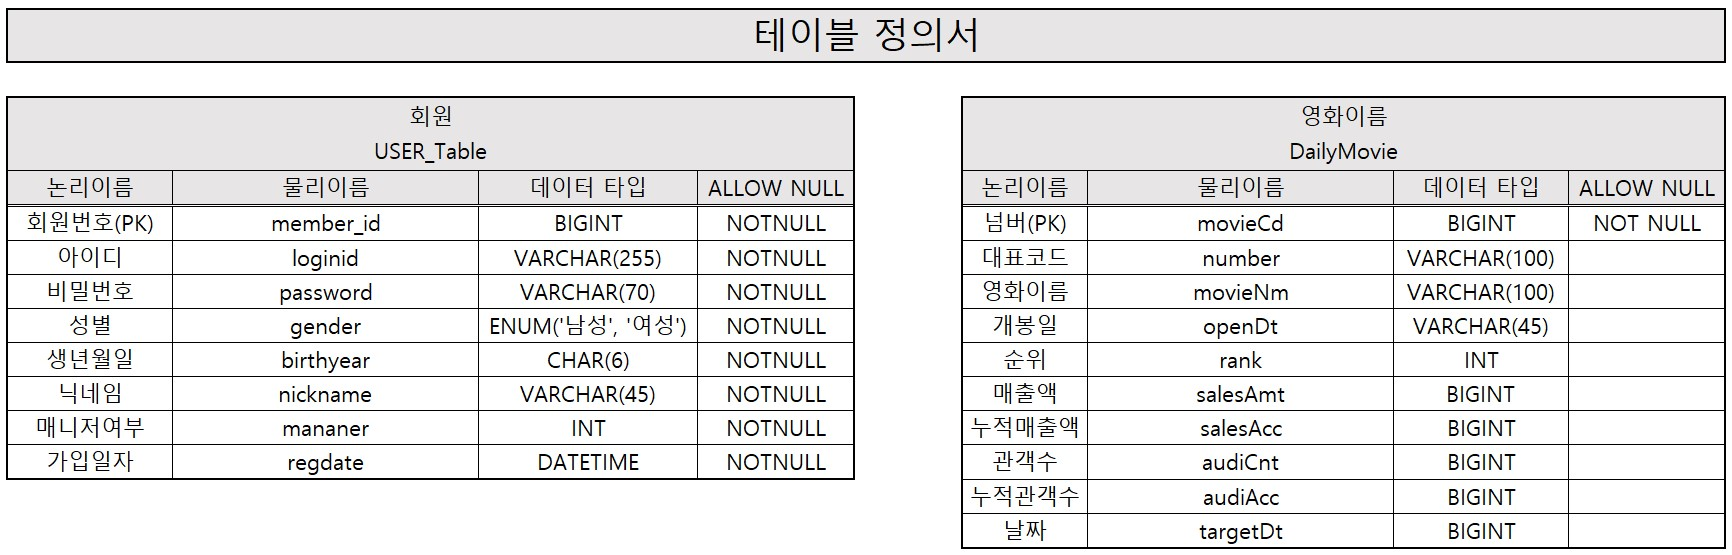
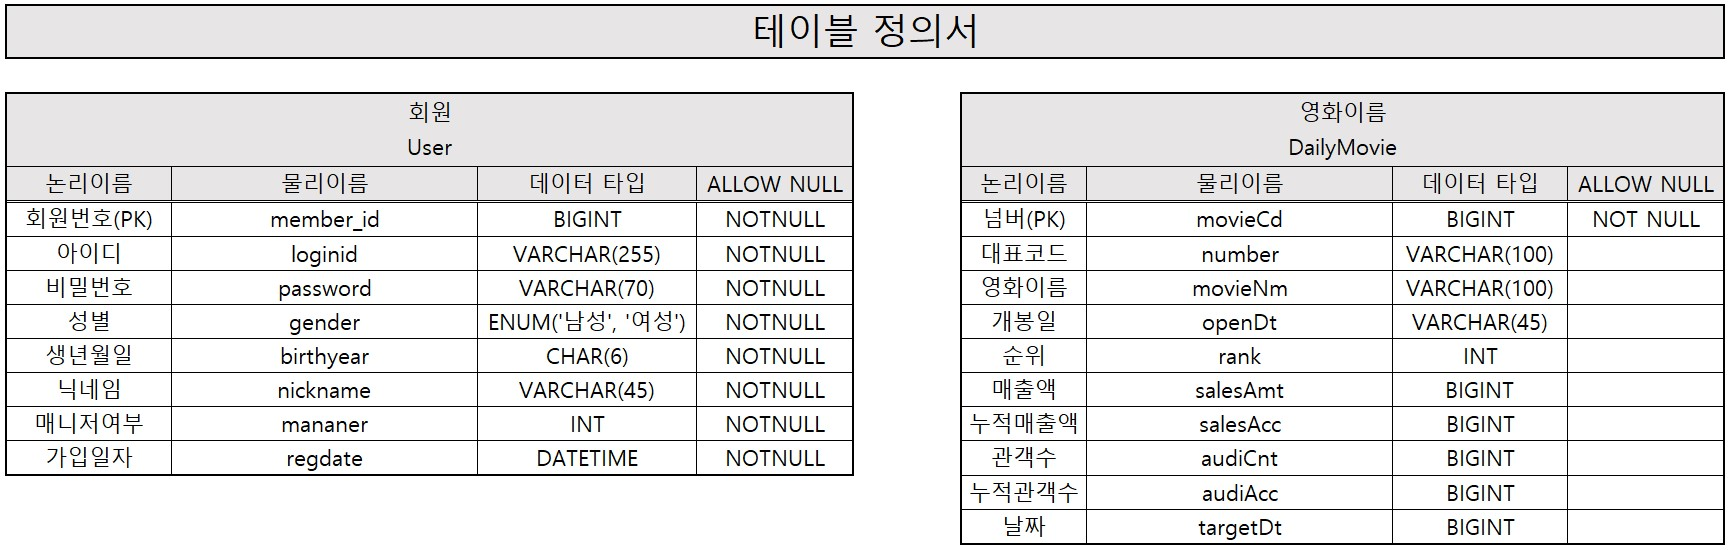
테이블정의서 추가

diff --git a/1.md b/1.md
@@ -63,7 +63,8 @@
 
 ## 테이블 정의서
 
-<img src="./기타/테이블 정의서/테이블정의서.jpg" width="100%" height="" title="" alt="웹 구조 다이어그램"></img>
+<img src="./기타/테이블 정의서/테이블정의서.jpg" width="100%" height="" title="" alt="테이블정의서"></img><br>
+<img src="./기타/테이블 정의서/테이블정의서2.jpg" width="100%" height="" title="" alt="테이블정의서2"></img>
 
 ---
 
@@ -98,7 +99,7 @@ Python으로 만든 DB 관리 툴입니다.
 ## 영화 찾기 및 영화 상세보기
 
 <img src="./기타/발표 자료/image/5%20search%20and%20detail-min.gif" width="100%" height="" title="" alt="search"></img> <br>
-회원가입하고 로그인하는 과정입니다.
+데이터베이스에 있는 영화 목록을 보고 영화를 찾아 상세 정보를 확인하는 모습입니다.  
 <br><br>
 
 ## 영화평점
